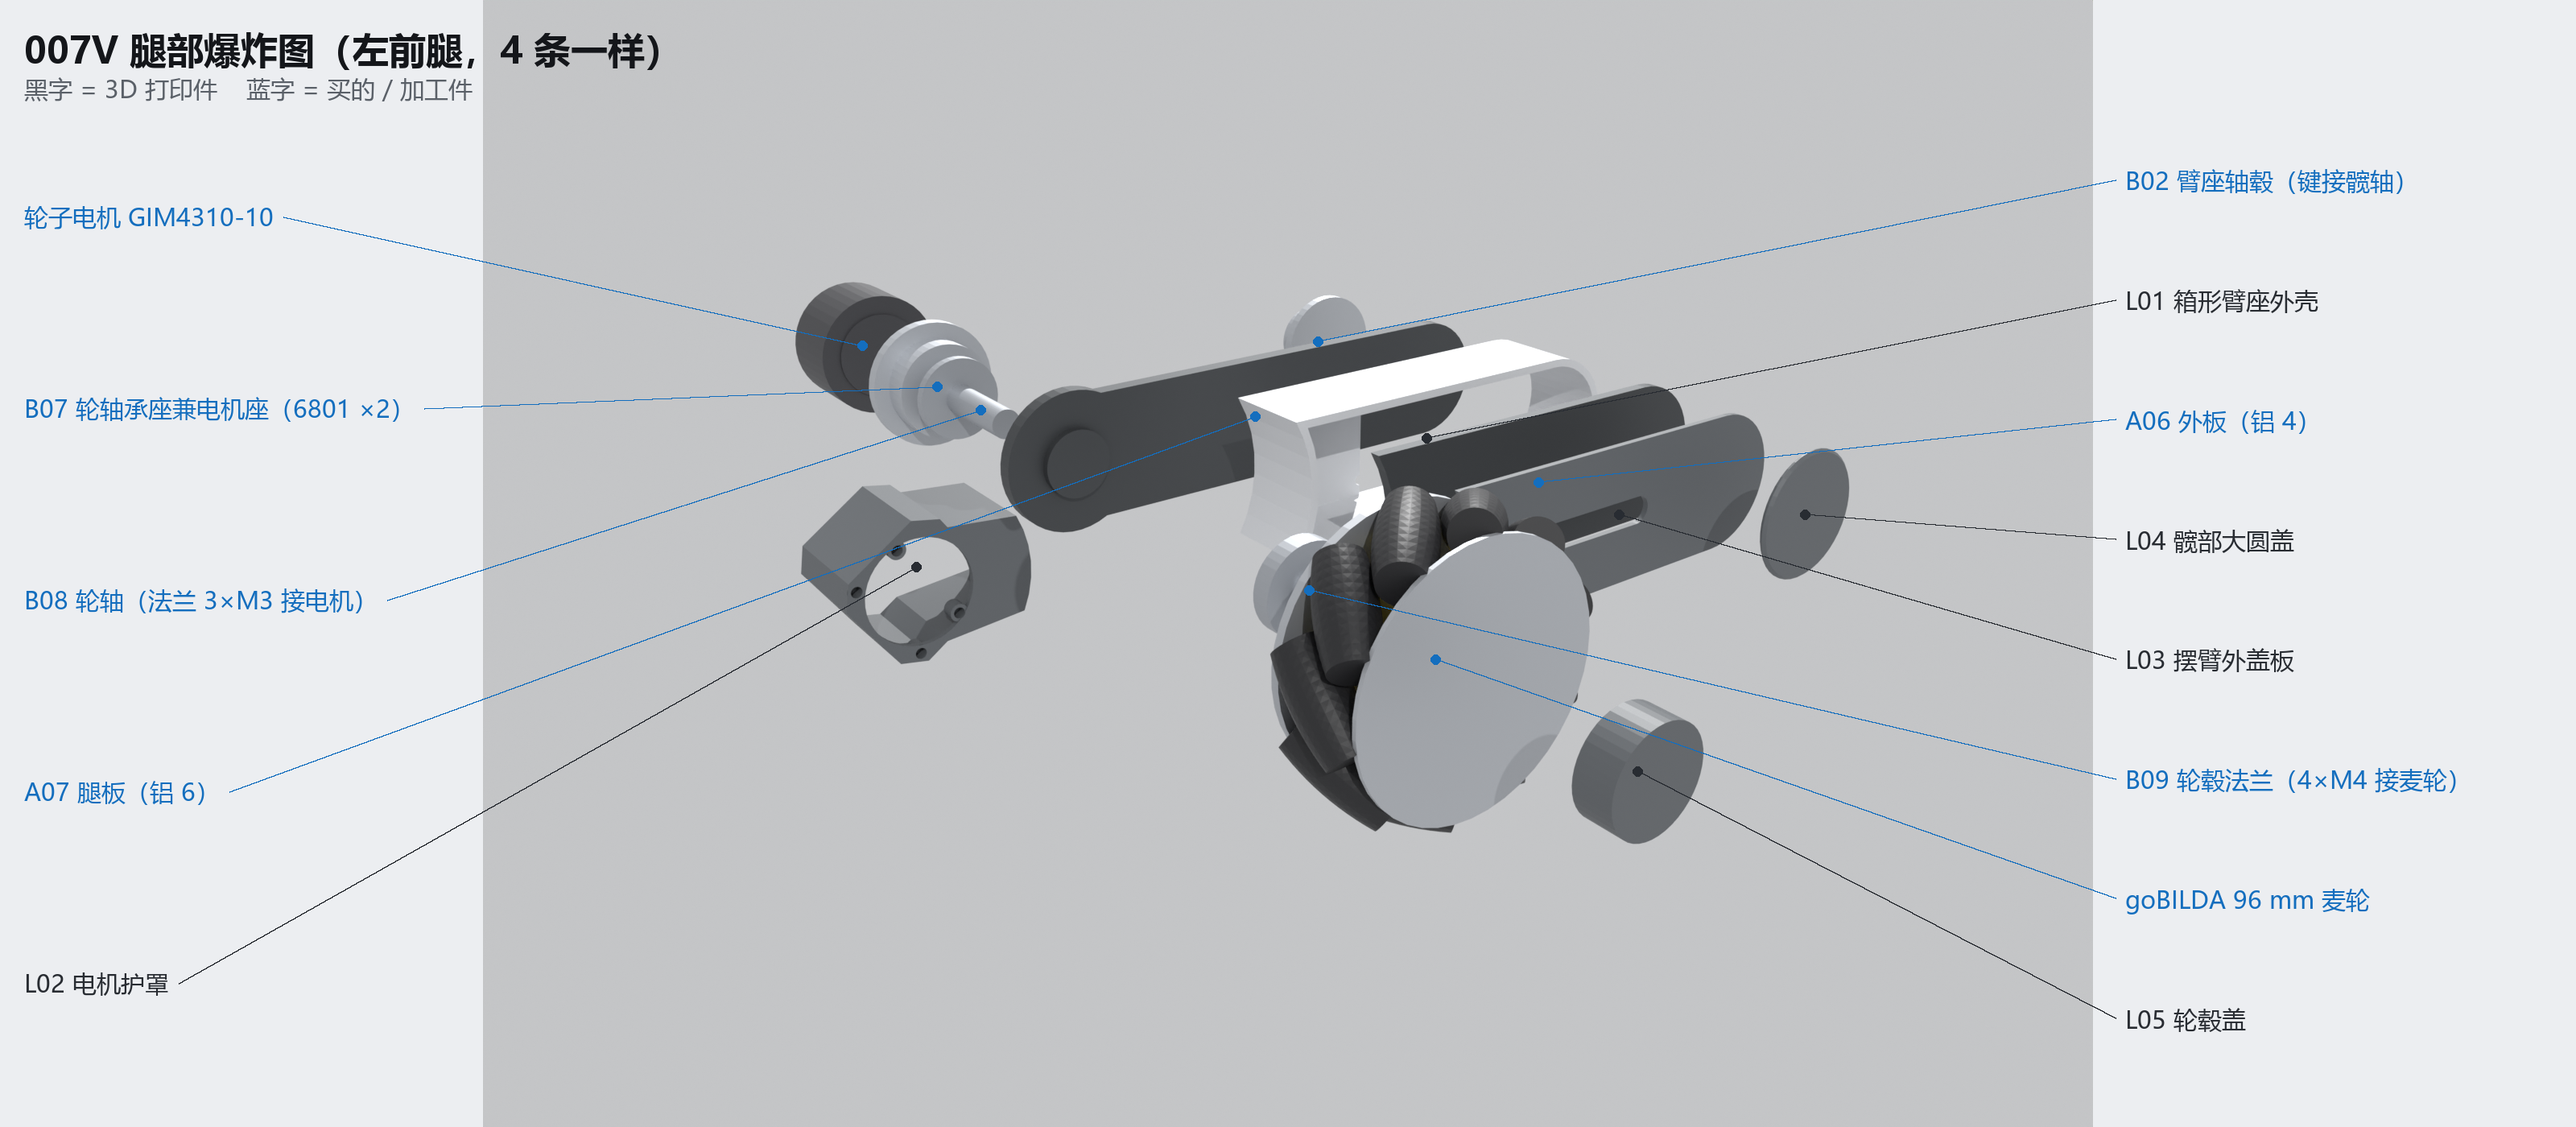
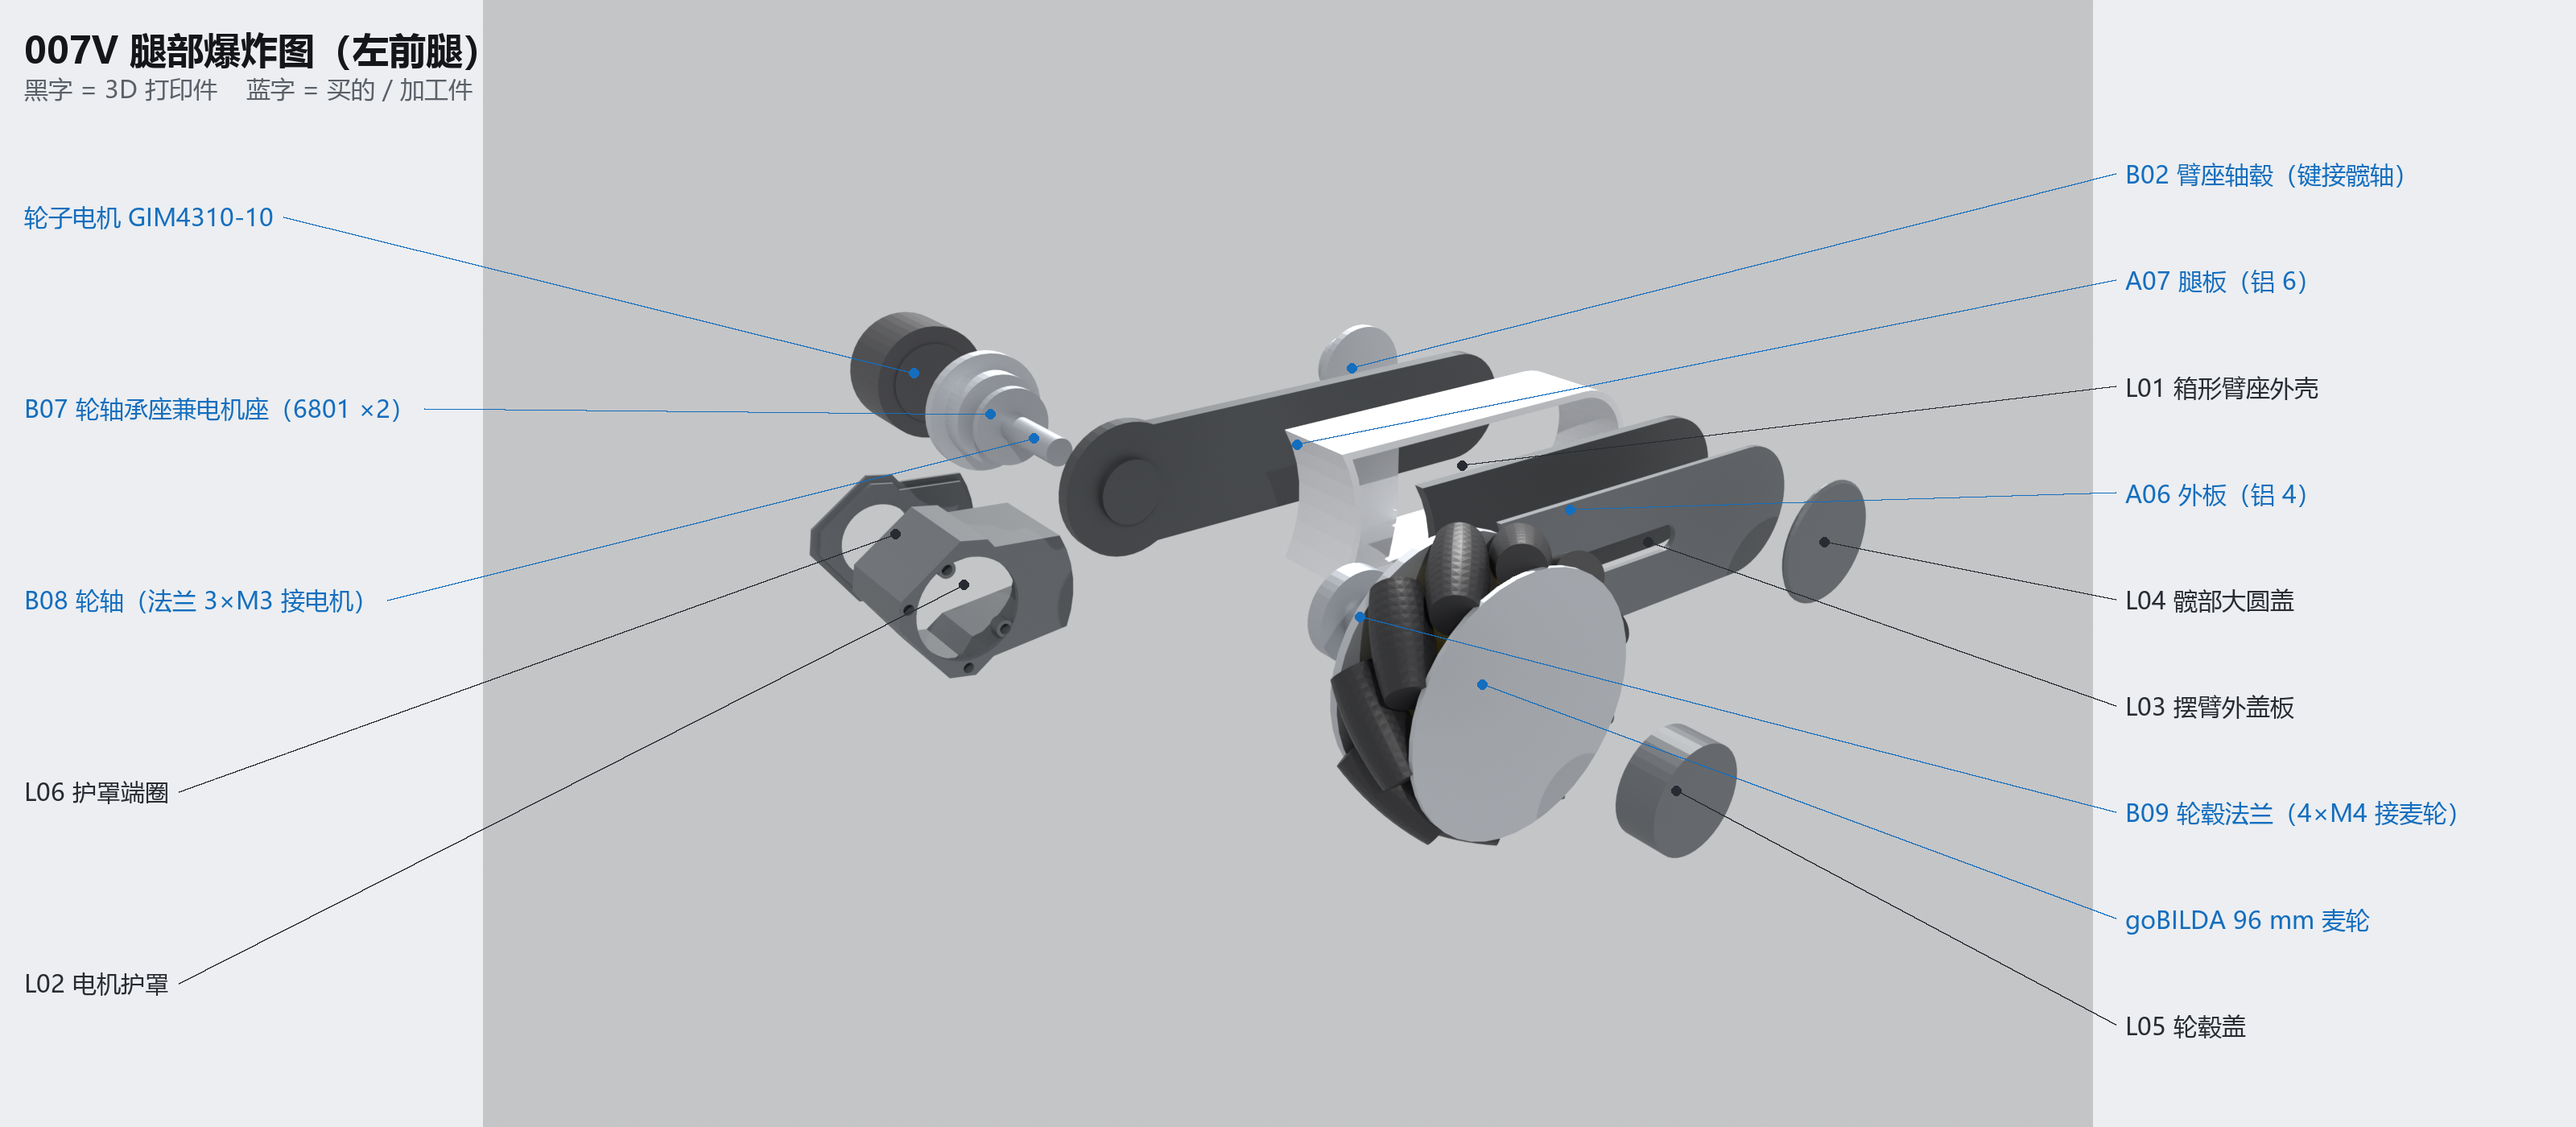
腿部：加护罩端圈 L06 封住护罩空腔；轮子电机线接进机身（侧板过线孔挪到黑腰 z75 + 护线圈）

diff --git a/007v/shell.py b/007v/shell.py
@@ -469,6 +469,14 @@ def fork_plate(y0, y1, k=0.0):
     return wprism(poly, y0, y1).fuse(cyl_y(ARM, 0, 2 * r, y0, y1))              # 实心（用户 2026-10-18：不要镂空）
 
 
+# 轮子电机线进机身的地方：侧板上 x = 髋 ± 25、z = 75（黑腰那条铝带上，避开灯带），装橡胶护线圈；
+# 站立时线从腿里侧（y = LP0 - 5）走到髋轴旁边的 (u, v)，正好对着这个孔
+CABLE_HOLE_DX, CABLE_HOLE_Z = 25.0, 75.0
+_c, _s = math.cos(math.radians(STANCE_DEG)), math.sin(math.radians(STANCE_DEG))
+CABLE_HIP_U = CABLE_HOLE_DX * _c - (CABLE_HOLE_Z - HIP_Z) * _s
+CABLE_HIP_V = CABLE_HOLE_DX * _s + (CABLE_HOLE_Z - HIP_Z) * _c
+
+
 def leg_skin(op0, ly0, ly1, hub0, ly_out):
     """腿的外观件（左前腿坐标，方案 A 的样子）。op0 = 外板内侧；ly0 / ly1 = 电机两端；hub0 = 臂座外壳内侧；ly_out = 腿外侧面（= 麦轮外侧面）。"""
     P = []
@@ -513,6 +521,9 @@ def leg_skin(op0, ly0, ly1, hub0, ly_out):
     for X in (-12, -4, 4, 12):                                                      # 底面散热槽
         guard = guard.cut(wprism([(X - 1, -30.5), (X + 1, -30.5), (X + 1, -29), (X - 1, -29)], gy0 + 4, gy1 - 5))
     P.append(("电机护罩", soft(guard, 0.8), "anod"))
+    # 护罩端圈（单独打印）：护罩套好、拧上腿板以后，从敞开那头扣进去，封住护罩和电机之间那圈空腔，只露电机端面和青色光环
+    ring = boot(0, gy0 - 2, gy0).fuse(boot(3.2, gy0 - 0.1, gy0 + 4)).cut(cyl_y(ARM, 0, 41, gy0 - 3, gy0 + 5))
+    P.append(("电机护罩端圈", soft(ring, 0.8), "anod"))
     c55, s55 = math.cos(math.radians(STANCE_DEG)), math.sin(math.radians(STANCE_DEG))
     for X in (-31, 31):
         for yb in (gy0 + 9, gy1 - 9):
@@ -523,7 +534,7 @@ def leg_skin(op0, ly0, ly1, hub0, ly_out):
     # 出线口（线缆接头）+ 电机线缆：沿臂座上沿走到髋，三个小线夹
     yy = LP0 - 5
     P.append(("外壳·出线口", cyl_dir((ARM - 46, yy, 25), (0, 0, 1), 10, 5), "dark"))
-    pts = [(ARM - 46, 30), (ARM - 62, 30), (95, 27), (45, 29)]
+    pts = [(ARM - 46, 30), (ARM - 62, 30), (95, 27), (45, 29), (CABLE_HIP_U, CABLE_HIP_V)]   # 一直走到髋轴旁边，在这里留一段余量进机身
     cab = None
     for (p0, p1) in zip(pts, pts[1:]):
         d = V(p1[0] - p0[0], 0, p1[1] - p0[1])
@@ -531,7 +542,7 @@ def leg_skin(op0, ly0, ly1, hub0, ly_out):
         cab = seg if cab is None else cab.fuse(seg)
         cab = cab.fuse(cq.Solid.makeSphere(3.5, V(p1[0], yy, p1[1])))
     P.append(("外壳·电机线缆", cab, "black"))
-    for i, (u, v) in enumerate(((ARM - 62, 30), (95, 27), (60, 28.5))):
+    for i, (u, v) in enumerate(((ARM - 62, 30), (95, 27), (60, 28.5), (22, 29))):
         P.append((f"外壳·线夹{i + 1}", box(u - 3, u + 3, yy - 4.5, yy + 4.5, v - 4.5, v + 4.5), "dark"))
     # 台阶测距 2026-10-22 挪到机身前后（前保险杠、后格栅里），腿上不装
     return P

diff --git a/007v/build.py b/007v/build.py
@@ -123,7 +123,7 @@ def world_verts(p, tf):
 # ---------------------------------------------------------------- 干涉检查（实体求交）
 KNOWN = [("髋轴", "侧板"), ("髋轴", "大带轮"), ("髋轴", "轴承座"), ("髋轴", "轴毂"), ("同步带", "带轮"),
          ("髋轴", "箱形臂座"), ("俯仰舵机", "耳骨架"), ("俯仰舵机", "耳中板"), ("编织线缆", "耳骨架"), ("编织线缆", "俯仰舵机"), ("编织线缆", "屏幕头"), ("编织线缆", "转轴壳"), ("屏板", "屏幕头"), ("屏幕玻璃", "屏幕头"), ("轴毂", "箱形臂座"),
-         ("麦轮轮毂", "轮轴支座"), ("麦轮轮毂", "麦轮"), ("腿板内层", "箱形臂座外壳"), ("麦轮轮轴", "麦轮外包络"), ("麦轮轮轴", "麦轮轮毂"), ("麦轮轮轴", "轮轴承座"), ("麦轮轮轴", "腿板内层"), ("麦轮轮轴", "轮轴支座"), ("麦轮轮轴", "轮子电机"), ("麦轮轮轴", "电机护罩"), ("轮轴承座", "电机护罩"), ("轮轴承座", "腿板内层"), ("栏板", "导轨"), ("俯仰轴销", "俯仰铜套"), ("雷达LD19", "雷达法兰"), ("舵盘法兰", "耳骨架"), ("舵盘法兰", "转轴壳"), ("俯仰轴销", "耳骨架"), ("俯仰轴销", "转轴壳"), ("俯仰铜套", "耳骨架"), ("俯仰铜套", "转轴壳"), ("耳骨架", "脖子底座"), ("轮毂法兰", "麦轮外包络"), ("轮毂法兰", "麦轮轮轴"), ("轮毂法兰", "麦轮轮毂"), ("屏板", "屏板压框"), ("俯仰轴销", "屏幕头·主壳"), ("俯仰舵机", "屏幕头·主壳")]   # 压框定位销插进屏幕板孔；轴销压进头壳；舵盘拧在头壳的连接座上（只有舵盘面贴着，head_print 单独查过）
+         ("麦轮轮毂", "轮轴支座"), ("麦轮轮毂", "麦轮"), ("腿板内层", "箱形臂座外壳"), ("麦轮轮轴", "麦轮外包络"), ("麦轮轮轴", "麦轮轮毂"), ("麦轮轮轴", "轮轴承座"), ("麦轮轮轴", "腿板内层"), ("麦轮轮轴", "轮轴支座"), ("麦轮轮轴", "轮子电机"), ("麦轮轮轴", "电机护罩"), ("轮轴承座", "电机护罩"), ("轮轴承座", "腿板内层"), ("栏板", "导轨"), ("俯仰轴销", "俯仰铜套"), ("雷达LD19", "雷达法兰"), ("舵盘法兰", "耳骨架"), ("舵盘法兰", "转轴壳"), ("俯仰轴销", "耳骨架"), ("俯仰轴销", "转轴壳"), ("俯仰铜套", "耳骨架"), ("俯仰铜套", "转轴壳"), ("耳骨架", "脖子底座"), ("轮毂法兰", "麦轮外包络"), ("轮毂法兰", "麦轮轮轴"), ("轮毂法兰", "麦轮轮毂"), ("屏板", "屏板压框"), ("俯仰轴销", "屏幕头·主壳"), ("俯仰舵机", "屏幕头·主壳"), ("电机线缆", "")]   # 压框定位销插进屏幕板孔；轴销压进头壳；舵盘拧在头壳的连接座上（只有舵盘面贴着，head_print 单独查过）
 
 
 def known(a, b):

diff --git a/007v/model.py b/007v/model.py
@@ -143,6 +143,14 @@ def body_parts():
 
     for n, s, c in shell.body_shell():
         add(n, s, c)
+    for fx in (1, -1):                                          # 轮子电机线：从腿里侧穿过侧板上的护线圈进机身
+        for sy in (1, -1):
+            hx = fx * (HIP_X + shell.CABLE_HOLE_DX)
+            y_in, y_out = sy * (BODY_W / 2 - PLATE_SIDE - 8), sy * (LP0 - 5)
+            stub = cyl_y(hx, shell.CABLE_HOLE_Z, 7, *sorted((y_in, y_out)))
+            tag = ("前" if fx > 0 else "后") + ("左" if sy > 0 else "右")
+            add(f"外壳·电机线缆进机身{tag}", stub, "black")
+            add(f"外壳·护线圈{tag}", shell.ring_y(hx, shell.CABLE_HOLE_Z, 14, 7, *sorted((sy * (BODY_W / 2), sy * (BODY_W / 2 + 2)))), "black")
     for i, (S, d) in enumerate(shell.step_sensors()):
         add(f"台阶测距板{'前' if S[0] > 0 else '后'}{'左' if S[1] > 0 else '右'}", shell.step_board(S, d), "pcb")
     # 脖子底座 + 两块肩座 + 舵机 + 雷达（都在脖子坐标里画，再挪到机身上）

diff --git a/007v/body_print.py b/007v/body_print.py
@@ -168,6 +168,7 @@ def legs():
         g = g.fuse(cyl_y(u, v, 9.0, LP0 - 8.0, LP0 - 0.5))
         g = g.cut(insert_hole((u, LP0, v), (0, -1, 0), "M4"))              # 腿板 A07 的 4 颗 M4 从外面拧进来
     out["guard"] = g
+    out["guard_ring"] = P["电机护罩端圈"]
     # 轮毂盖：外观上轮子中间那个圆盖（Φ32），做成杯子，从轮子外面扣在 goBILDA 轮毂上（盖住 4 颗 M4），杯口 1 mm 圈用 VHB 贴
     import model as _m
     hub_out = _m.HUB_IN + 12.0
@@ -209,6 +210,7 @@ PRINT = {   # key: (编号, 名字, 数量, 材料, 打印时朝下的面)
     "guard": ("L02", "电机护罩", 4, "PA12-CF / PETG-CF", (0, 1, 0)),
     "arm_cover": ("L03", "摆臂外盖板", 4, "ASA 深灰", (0, -1, 0)),
     "hip_cap": ("L04", "髋部大圆盖", 4, "ASA 深灰", (0, -1, 0)),
+    "guard_ring": ("L06", "电机护罩端圈", 4, "PA12-CF / PETG-CF", (0, -1, 0)),
     "hub_cap": ("L05", "轮毂盖（扣在 goBILDA 轮毂上）", 4, "PETG 深灰", (0, -1, 0)),
 }
 

diff --git a/007v/mfg.py b/007v/mfg.py
@@ -324,7 +324,7 @@ def side_plate():
         for u, v in WORM_FACE["holes"]:
             H.append(slot(gx + sx * u, gz + v, WORM_FACE["d"], sx * e[0] / el * WORM_FACE["slot"], e[1] / el * WORM_FACE["slot"],
                           "蜗轮箱 M4 六角柱（长 16）；NFP-5840 厂家孔位，电机朝上装；长孔用来调皮带松紧", star=True))
-        H.append(hole(hx, HIP_Z + 40, 12.0, "轮子电机线过线孔（装橡胶护线圈）"))
+        H.append(hole(hx + sx * 25.0, 75.0, 12.0, "轮子电机线过线孔（装 Φ12 橡胶护线圈；在黑腰铝带上，避开灯带）"))
         for dx in (-9.0, 9.0):
             H.append(hole(hx + dx, HIP_Z + 34, 3.4, "编码器支架 P26：M3×8 沉头从外面拧（外面要沉头孔）"))
     zp = FRAME_RAIL[2] + FRAME_GAP

diff --git a/007v/tools_exploded.py b/007v/tools_exploded.py
@@ -150,7 +150,7 @@ def leg_items():
     # 打印件
     for code, off, lbl, col in (("L01", (0, 40, 0), "L01 箱形臂座外壳", "print"), ("L02", (0, -150, -110), "L02 电机护罩", "print_dk"),
                                 ("L03", (0, 115, 0), "L03 摆臂外盖板", "print_dk"), ("L04", (0, 150, 0), "L04 髋部大圆盖", "print_dk"),
-                                ("L05", (0, 235, 0), "L05 轮毂盖", "print_dk")):
+                                ("L05", (0, 235, 0), "L05 轮毂盖", "print_dk"), ("L06", (0, -205, -110), "L06 护罩端圈", "print_dk")):
         s, nm = step(code)
         items.append((code, s, col, off, lbl, True))
     return items

diff --git a/docs/机械狗007v/机身腿部打印与装配说明.md b/docs/机械狗007v/机身腿部打印与装配说明.md
@@ -16,6 +16,7 @@
 | 底板 A03 | 保险丝盒、两个继电器座开长孔 | 通用件 |
 | 髋部编码器 | 新打印件 P26 编码器支架：托住 Adafruit AS5600，芯片正对髋轴端头的磁铁（间隙 1 mm），2 颗 M3 拧在侧板上 | Adafruit 官方电路板文件 |
 | 台阶测距 | 从腿上挪到机身：前保险杠 2 个（朝前下 30°，外面一个 Φ8 小黑窗），后格栅 2 个（藏在鳍中间）；腿上去掉 D30 | Pololu 3415 官方尺寸图 |
+| 轮子电机线 | 侧板 A01 过线孔挪到 x = 髋 ± 25、z = 75（黑腰铝带上，避开灯带），装 Φ12 橡胶护线圈；线从护罩出线口沿臂座上沿走到髋轴旁边，正对这个孔进机身。髋轴附近留一段余量，腿翻转时线跟着弯，不扯 | 站立姿态算的位置 |
 | 甲板 A02 | 脖子底座的螺丝孔改到 x = 78 / 175（原来的位置是改头部之前的，对不上） | 头部工程版 |
 
 检查结果：
@@ -41,6 +42,8 @@
 | L01 | 箱形臂座外壳 | 4 | ASA 深灰 | 外板那面 4 个 M4、腿板那面 6 个 M3 热熔螺母 |
 | L02 | 电机护罩 | 4 | PA12-CF / PETG-CF | 里面 4 根 M4 螺丝柱，对腿板的 4 个孔 |
 | L03 / L04 | 摆臂外盖板 / 髋部大圆盖 | 各 4 | ASA 深灰 | VHB 双面胶贴 |
+| L05 | 轮毂盖 | 4 | ASA 深灰 | 扣在 goBILDA 轮毂上，盖住 4 颗 M4 |
+| L06 | 电机护罩端圈 | 4 | PA12-CF / PETG-CF | 护罩朝机身那头原来是敞开的，看进去是空腔；这个圈扣进去封住，中间 Φ41 孔只露电机端面和青色光环。**装法**：电机先拧在 B07 上 → 套护罩、拧腿板 → 最后把端圈压进护罩口，点几滴胶 |
 
 **黑腰不打印**：外观上那圈黑腰就是露出来的铝板。前后板、侧板做**黑色阳极氧化**，腰线灯条直接贴在铝板上。
 
